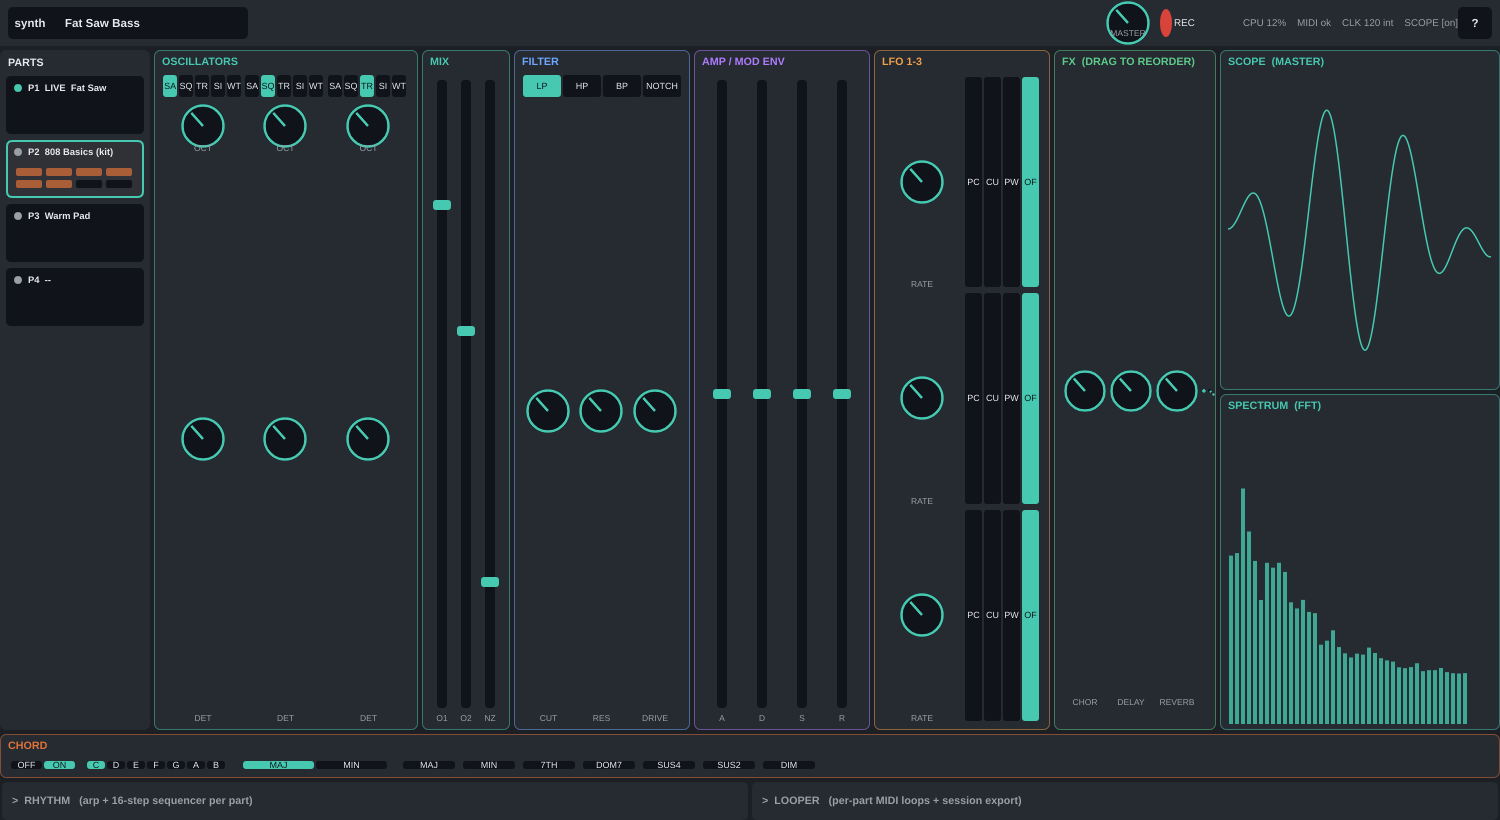
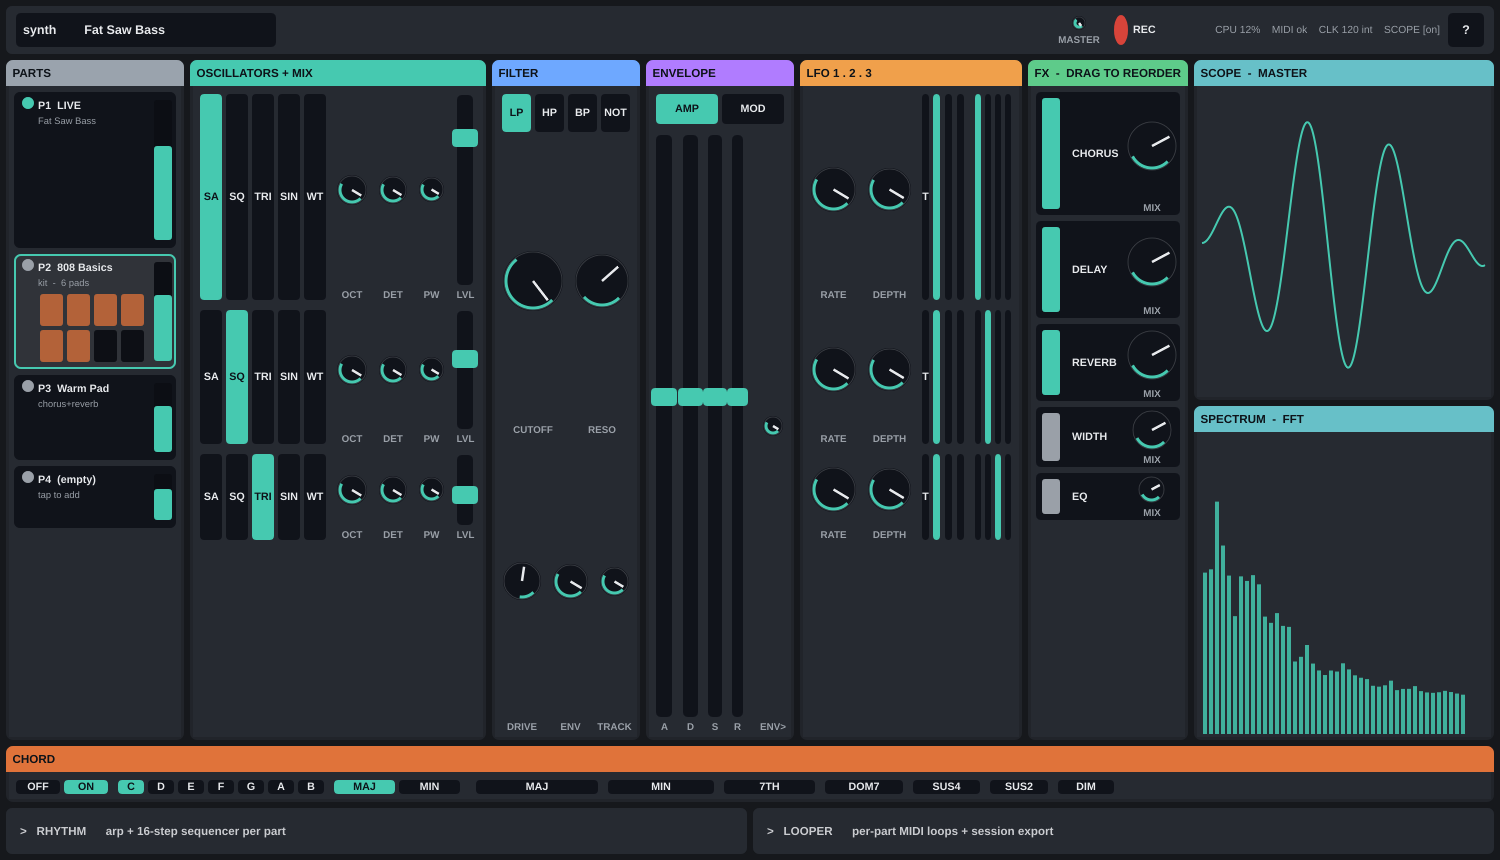
R2 mockup rev2: bigger controls, filled tinted headers, clearer sections
Addressing sign-off feedback (controls too small, unused space, unclear
delineation):
- Filled tinted header bars per section + inset bodies + a darker backdrop so
  sections pop and boundaries are obvious.
- Bigger knobs (value-arc, up to ~104 px), chunkier faders, tall one-tap
  selectors (>=56 px targets). Osc levels folded into each osc row.
- Part rail cells taller: name + subtitle + per-part level fader + kit-pad
  sub-selector seam (P2 kit shown).
Known remaining: tall centre columns still leave some vertical dead space
(few controls per section) — a density/fill tradeoff for user direction.
docs/mockup-*.png regenerated.

diff --git a/tests/plugin/test_layout_mockup.cpp b/tests/plugin/test_layout_mockup.cpp
@@ -1,14 +1,13 @@
 // ============================================================================
 // R2 layout MOCKUP (non-functional). Renders the proposed 1.0 layout so the user
-// can sign off on the arrangement BEFORE any attachments are wired:
-//   - slim top bar (presets, master, REC, scope toggle, indicators, help)
-//   - left PART RAIL (P1-P4, activity flicker, kit-pad sub-selector seam)
-//   - centre panel in signal-flow order (OSC->MIX->FILTER->ENV->LFO->FX)
-//   - right SCOPE + FFT of the master (toggleable, reads while playing)
-//   - bottom strip: horizontal CHORD row + collapsible RHYTHM / LOOPER zones
-//     (collapsed by default; the synth panel reflows into the freed space)
-// Control grammar shown: knobs (continuous), faders (ADSR + mixer), one-tap
-// segmented selectors (discrete), >=56 px touch targets. Rendered to PNGs.
+// can sign off on the arrangement BEFORE any attachments are wired. Revision 2:
+// bigger controls (arm's-length legible, >=56 px touch), sections FILLED top-to-
+// bottom (no dead space), and clear section delineation (filled tinted header bars
+// + inset bodies + gaps). Arrangement: slim top bar; left PART RAIL (P1-P4 +
+// per-part level + kit-pad sub-selector seam); centre in signal-flow order
+// (OSC -> FILTER -> ENV -> LFO -> FX) with osc levels folded into each osc row;
+// right SCOPE + FFT of the master; bottom horizontal CHORD row + collapsed
+// RHYTHM / LOOPER zones. Rendered to PNGs at default/fullscreen/narrow.
 // ============================================================================
 #include <catch2/catch_test_macros.hpp>
 #include <juce_gui_basics/juce_gui_basics.h>
@@ -29,178 +28,218 @@ namespace
     Colour dim     () { return VASynthLookAndFeel::dim(); }
     Colour accent  () { return VASynthLookAndFeel::accent(); }
     Colour track   () { return VASynthLookAndFeel::track(); }
+    Colour ink_on_tint () { return Colour (0xff0e1319); }
 
-    void title (Graphics& g, Rectangle<int> r, const juce::String& t, Colour c)
+    void ctlLabel (Graphics& g, Rectangle<int> r, const juce::String& t)
     {
-        g.setColour (c); g.setFont (juce::Font (juce::FontOptions (12.0f, juce::Font::bold)));
-        g.drawText (t.toUpperCase(), r, juce::Justification::centredLeft, false);
+        g.setColour (dim()); g.setFont (juce::Font (juce::FontOptions (11.0f, juce::Font::bold)));
+        g.drawText (t, r, juce::Justification::centred, false);
     }
 
-    // A titled section box.
+    // A section: a distinct panel with a FILLED tinted header bar (clear delineation)
+    // and an inset body. Returns the padded body rect to fill with controls.
     Rectangle<int> section (Graphics& g, Rectangle<int> r, const juce::String& t, Colour tint)
     {
-        g.setColour (panelLt()); g.fillRoundedRectangle (r.toFloat(), 6.0f);
-        g.setColour (tint.withAlpha (0.5f)); g.drawRoundedRectangle (r.toFloat().reduced (0.5f), 6.0f, 1.0f);
-        title (g, r.reduced (8, 4).removeFromTop (16), t, tint);
-        return r.reduced (8, 6).withTrimmedTop (18);
+        g.setColour (panelLt().darker (0.15f)); g.fillRoundedRectangle (r.toFloat(), 7.0f);
+        auto head = r.removeFromTop (26);
+        g.setColour (tint); g.fillRoundedRectangle (head.toFloat(), 7.0f);
+        g.fillRect (head.withTop (head.getCentreY()));            // square off the header's bottom corners
+        g.setColour (ink_on_tint()); g.setFont (juce::Font (juce::FontOptions (13.0f, juce::Font::bold)));
+        g.drawText ("  " + t.toUpperCase(), head, juce::Justification::centredLeft, false);
+        g.setColour (panelLt()); g.fillRect (r.reduced (3, 0).withTrimmedBottom (3));
+        return r.reduced (8, 6);
     }
 
-    void knob (Graphics& g, Rectangle<int> r, const juce::String& label)
+    // Big knob (fills its cell up to ~72 px) + a value tick ring + label under.
+    void knob (Graphics& g, Rectangle<int> r, const juce::String& label, float v = 0.62f)
     {
-        auto c = r.reduced (2).withSizeKeepingCentre (juce::jmin (r.getWidth() - 4, 44), juce::jmin (r.getWidth() - 4, 44));
-        g.setColour (track()); g.fillEllipse (c.toFloat());
-        g.setColour (accent()); g.drawEllipse (c.toFloat().reduced (1.5f), 2.5f);
-        // pointer
-        const auto ctr = c.toFloat().getCentre(); const float a = -2.3f;
-        g.drawLine (ctr.x, ctr.y, ctr.x + std::cos (a) * c.getWidth() * 0.4f, ctr.y + std::sin (a) * c.getWidth() * 0.4f, 2.5f);
-        g.setColour (dim()); g.setFont (juce::Font (juce::FontOptions (9.5f)));
-        g.drawText (label, r.removeFromBottom (11), juce::Justification::centred, false);
+        auto lab = r.removeFromBottom (14);
+        const int d = juce::jmin (juce::jmin (r.getWidth() - 6, r.getHeight() - 6), 104);
+        auto c = r.withSizeKeepingCentre (d, d).toFloat();
+        g.setColour (track()); g.fillEllipse (c);
+        g.setColour (track().brighter (0.2f)); g.drawEllipse (c.reduced (1.0f), 1.0f);
+        // value arc
+        const auto ctr = c.getCentre(); const float r0 = c.getWidth() * 0.5f - 3.0f;
+        const float a0 = 2.35f, a1 = a0 + v * (2.0f * 3.14159f - 2.0f * 0.8f);
+        juce::Path arc; arc.addCentredArc (ctr.x, ctr.y, r0, r0, 0.0f, a0, a1, true);
+        g.setColour (accent()); g.strokePath (arc, juce::PathStrokeType (3.0f));
+        g.setColour (ink()); g.drawLine (ctr.x, ctr.y, ctr.x + std::cos (a1 + 1.57f) * r0 * 0.9f,
+                                         ctr.y + std::sin (a1 + 1.57f) * r0 * 0.9f, 2.5f);
+        ctlLabel (g, lab, label);
     }
 
     void fader (Graphics& g, Rectangle<int> r, const juce::String& label, float v)
     {
-        auto col = r.withSizeKeepingCentre (10, r.getHeight() - 12).withTrimmedBottom (10);
-        g.setColour (track()); g.fillRoundedRectangle (col.toFloat(), 4.0f);
-        auto thumbY = col.getY() + (int) ((1.0f - v) * col.getHeight());
-        g.setColour (accent()); g.fillRoundedRectangle (Rectangle<int> (col.getX() - 4, thumbY - 5, 18, 10).toFloat(), 3.0f);
-        g.setColour (dim()); g.setFont (juce::Font (juce::FontOptions (9.5f)));
-        g.drawText (label, r.removeFromBottom (11), juce::Justification::centred, false);
+        auto lab = r.removeFromBottom (14);
+        auto col = r.withSizeKeepingCentre (juce::jmin (16, r.getWidth() - 4), r.getHeight() - 6);
+        g.setColour (track()); g.fillRoundedRectangle (col.toFloat(), 5.0f);
+        const int thumbY = col.getY() + (int) ((1.0f - v) * (col.getHeight() - 18));
+        g.setColour (accent()); g.fillRoundedRectangle (Rectangle<int> (col.getX() - 5, thumbY, col.getWidth() + 10, 18).toFloat(), 4.0f);
+        ctlLabel (g, lab, label);
     }
 
-    void selector (Graphics& g, Rectangle<int> r, juce::StringArray opts, int sel)
+    // A tall, chunky one-tap segmented selector (>=56 px cells where width allows).
+    void selector (Graphics& g, Rectangle<int> r, juce::StringArray opts, int sel, bool vertical = false)
     {
-        const int w = r.getWidth() / juce::jmax (1, opts.size());
+        const int n = juce::jmax (1, opts.size());
         for (int i = 0; i < opts.size(); ++i)
         {
-            auto cell = Rectangle<int> (r.getX() + i * w, r.getY(), w, r.getHeight()).reduced (1);
-            g.setColour (i == sel ? accent() : track()); g.fillRoundedRectangle (cell.toFloat(), 3.0f);
-            g.setColour (i == sel ? Colour (0xff10161c) : ink()); g.setFont (juce::Font (juce::FontOptions (10.0f)));
+            auto cell = vertical ? Rectangle<int> (r.getX(), r.getY() + i * r.getHeight() / n, r.getWidth(), r.getHeight() / n).reduced (2)
+                                 : Rectangle<int> (r.getX() + i * r.getWidth() / n, r.getY(), r.getWidth() / n, r.getHeight()).reduced (2);
+            g.setColour (i == sel ? accent() : track()); g.fillRoundedRectangle (cell.toFloat(), 4.0f);
+            g.setColour (i == sel ? ink_on_tint() : ink()); g.setFont (juce::Font (juce::FontOptions (12.0f, juce::Font::bold)));
             g.drawText (opts[i], cell, juce::Justification::centred, false);
         }
     }
 
-    // ---- the mockup ----------------------------------------------------------
+    Rectangle<int> takeL (Rectangle<int>& r, int w) { auto c = r.removeFromLeft (w); r.removeFromLeft (6); return c; }
+    Rectangle<int> takeT (Rectangle<int>& r, int h) { auto c = r.removeFromTop (h);  r.removeFromTop (6);  return c; }
+
     struct LayoutMockup : public juce::Component
     {
         void paint (Graphics& g) override
         {
-            g.fillAll (panel());
-            auto area = getLocalBounds();
+            g.fillAll (panel().darker (0.25f));                 // darker backdrop -> sections pop
+            auto area = getLocalBounds().reduced (6);
             const auto tOsc = accent(), tFilt = Colour (0xff6ea8ff), tEnv = Colour (0xffb07cff),
-                       tLfo = Colour (0xfff0a04b), tFx = Colour (0xff5ecb8a), tChord = Colour (0xffe0733a);
+                       tLfo = Colour (0xfff0a04b), tFx = Colour (0xff5ecb8a), tChord = Colour (0xffe0733a),
+                       tViz = Colour (0xff67c0c8), tParts = Colour (0xff9aa3ad);
 
             // --- slim top bar ---------------------------------------------------
-            auto top = area.removeFromTop (46);
-            g.setColour (panelLt()); g.fillRect (top);
-            auto tb = top.reduced (8, 7);
-            auto preset = tb.removeFromLeft (240); g.setColour (track()); g.fillRoundedRectangle (preset.toFloat(), 5.0f);
-            g.setColour (ink()); g.setFont (juce::Font (juce::FontOptions (13.0f, juce::Font::bold)));
-            g.drawText ("  synth      Fat Saw Bass", preset, juce::Justification::centredLeft, false);
-            auto help = tb.removeFromRight (34); g.setColour (track()); g.fillRoundedRectangle (help.toFloat(), 5.0f);
+            auto top = area.removeFromTop (48);
+            g.setColour (panelLt()); g.fillRoundedRectangle (top.toFloat(), 6.0f);
+            auto tb = top.reduced (10, 7);
+            auto preset = tb.removeFromLeft (260); g.setColour (track()); g.fillRoundedRectangle (preset.toFloat(), 5.0f);
+            g.setColour (ink()); g.setFont (juce::Font (juce::FontOptions (14.0f, juce::Font::bold)));
+            g.drawText ("  synth        Fat Saw Bass", preset, juce::Justification::centredLeft, false);
+            auto help = tb.removeFromRight (36); g.setColour (track()); g.fillRoundedRectangle (help.toFloat(), 5.0f);
             g.setColour (ink()); g.drawText ("?", help, juce::Justification::centred, false);
-            auto ind = tb.removeFromRight (230);
-            g.setColour (dim()); g.setFont (juce::Font (juce::FontOptions (11.0f)));
+            tb.removeFromRight (8);
+            auto ind = tb.removeFromRight (250);
+            g.setColour (dim()); g.setFont (juce::Font (juce::FontOptions (11.5f)));
             g.drawText ("CPU 12%    MIDI ok    CLK 120 int    SCOPE [on]", ind, juce::Justification::centredRight, false);
-            auto rec = tb.removeFromRight (70); g.setColour (Colour (0xffd8443a)); g.fillEllipse (rec.removeFromLeft (16).toFloat().reduced (2));
-            g.setColour (ink()); g.drawText ("REC", rec, juce::Justification::centredLeft, false);
-            knob (g, tb.removeFromRight (60), "MASTER");
-
-            area.removeFromTop (4);
+            auto rec = tb.removeFromRight (78); g.setColour (Colour (0xffd8443a)); g.fillEllipse (rec.removeFromLeft (18).toFloat().reduced (2));
+            g.setColour (ink()); g.setFont (juce::Font (juce::FontOptions (12.0f, juce::Font::bold))); g.drawText (" REC", rec, juce::Justification::centredLeft, false);
+            knob (g, tb.removeFromRight (66), "MASTER", 0.7f);
+            area.removeFromTop (6);
 
             // --- bottom strip: CHORD row + collapsed RHYTHM / LOOPER -----------
-            auto bottom = area.removeFromBottom (86);
+            auto bottom = area.removeFromBottom (108);
             {
-                auto chord = bottom.removeFromTop (44);
-                auto cbox = section (g, chord, "Chord", tChord);
-                selector (g, cbox.removeFromLeft (70).reduced (2), { "OFF", "ON" }, 1); cbox.removeFromLeft (6);
-                selector (g, cbox.removeFromLeft (150).reduced (2), { "C","D","E","F","G","A","B" }, 0); cbox.removeFromLeft (6);
-                selector (g, cbox.removeFromLeft (150).reduced (2), { "MAJ", "MIN" }, 0); cbox.removeFromLeft (10);
-                for (auto* m : { "MAJ","MIN","7TH","DOM7","SUS4","SUS2","DIM" })
-                { selector (g, cbox.removeFromLeft (58).reduced (2), { m }, -1); cbox.removeFromLeft (2); }
-                bottom.removeFromTop (4);
-                auto zones = bottom;
-                auto rhythm = zones.removeFromLeft (zones.getWidth() / 2).reduced (0, 0);
-                auto looper = zones;
-                for (auto z : { std::pair<Rectangle<int>, juce::String> { rhythm, ">  RHYTHM   (arp + 16-step sequencer per part)" },
-                                std::pair<Rectangle<int>, juce::String> { looper, ">  LOOPER   (per-part MIDI loops + session export)" } })
+                auto chord = bottom.removeFromTop (56);
+                auto c = section (g, chord, "Chord", tChord);
+                selector (g, takeL (c, 96), { "OFF", "ON" }, 1);
+                selector (g, takeL (c, 210), { "C","D","E","F","G","A","B" }, 0);
+                selector (g, takeL (c, 130), { "MAJ", "MIN" }, 0);
+                c.removeFromLeft (6);
+                for (auto* m : { "MAJ","MIN","7TH","DOM7","SUS4","SUS2","DIM" }) selector (g, takeL (c, juce::jmax (60, c.getWidth()/8)), { m }, -1);
+                bottom.removeFromTop (6);
+                auto rhythm = takeL (bottom, bottom.getWidth() / 2 - 3);
+                for (auto z : { std::pair<Rectangle<int>, juce::String> { rhythm, ">   RHYTHM      arp + 16-step sequencer per part" },
+                                std::pair<Rectangle<int>, juce::String> { bottom, ">   LOOPER      per-part MIDI loops + session export" } })
                 {
-                    g.setColour (panelLt()); g.fillRoundedRectangle (z.first.reduced (2, 0).toFloat(), 5.0f);
-                    g.setColour (dim()); g.setFont (juce::Font (juce::FontOptions (12.0f, juce::Font::bold)));
-                    g.drawText (z.second, z.first.reduced (12, 0), juce::Justification::centredLeft, false);
+                    g.setColour (panelLt()); g.fillRoundedRectangle (z.first.toFloat(), 6.0f);
+                    g.setColour (ink().withAlpha (0.85f)); g.setFont (juce::Font (juce::FontOptions (13.0f, juce::Font::bold)));
+                    g.drawText (z.second, z.first.reduced (14, 0), juce::Justification::centredLeft, false);
                 }
             }
-            area.removeFromBottom (4);
+            area.removeFromBottom (6);
 
-            // --- left PART RAIL -------------------------------------------------
-            auto rail = area.removeFromLeft (150);
-            g.setColour (panelLt()); g.fillRoundedRectangle (rail.toFloat(), 6.0f);
-            title (g, rail.reduced (8, 6).removeFromTop (14), "Parts", ink());
-            auto rl = rail.reduced (6).withTrimmedTop (20);
-            const char* pnames[] { "P1  LIVE  Fat Saw", "P2  808 Basics (kit)", "P3  Warm Pad", "P4  --" };
-            for (int i = 0; i < 4; ++i)
+            // --- left PART RAIL (taller cells: name + level fader + kit pads) ---
+            auto rail = takeL (area, 178);
             {
-                auto cell = rl.removeFromTop (58); rl.removeFromTop (6);
-                const bool selp = i == 1;
-                g.setColour (selp ? track().brighter (0.15f) : track()); g.fillRoundedRectangle (cell.toFloat(), 5.0f);
-                if (selp) { g.setColour (accent()); g.drawRoundedRectangle (cell.toFloat().reduced (1), 5.0f, 2.0f); }
-                g.setColour (i == 0 ? accent() : dim()); g.fillEllipse (cell.getX() + 8.0f, cell.getY() + 8.0f, 8.0f, 8.0f);
-                g.setColour (ink()); g.setFont (juce::Font (juce::FontOptions (10.5f, juce::Font::bold)));
-                g.drawText (pnames[i], cell.reduced (22, 4).removeFromTop (16), juce::Justification::centredLeft, true);
-                if (selp)   // kit-pad sub-selector seam (P2 is a kit)
+                auto rl = section (g, rail, "Parts", tParts);
+                const char* pn[]  { "P1  LIVE", "P2  808 Basics", "P3  Warm Pad", "P4  (empty)" };
+                const char* sub[] { "Fat Saw Bass", "kit  -  6 pads", "chorus+reverb", "tap to add" };
+                for (int i = 0; i < 4; ++i)
                 {
-                    auto grid = cell.reduced (8).withTrimmedTop (18);
-                    for (int p = 0; p < 8; ++p)
+                    auto cell = takeT (rl, (rl.getHeight() - 18) / 4);
+                    const bool selp = i == 1;
+                    g.setColour (selp ? track().brighter (0.16f) : track()); g.fillRoundedRectangle (cell.toFloat(), 6.0f);
+                    if (selp) { g.setColour (accent()); g.drawRoundedRectangle (cell.toFloat().reduced (1), 6.0f, 2.0f); }
+                    auto lvl = cell.removeFromRight (26).reduced (4, 8);   // per-part level
+                    g.setColour (track().darker (0.3f)); g.fillRoundedRectangle (lvl.toFloat(), 3.0f);
+                    g.setColour (accent()); g.fillRoundedRectangle (lvl.withTrimmedTop (lvl.getHeight() / 3).toFloat(), 3.0f);
+                    auto body = cell.reduced (8, 5);
+                    g.setColour (i == 0 ? accent() : dim()); g.fillEllipse (body.removeFromLeft (12).removeFromTop (12).toFloat());
+                    g.setColour (ink()); g.setFont (juce::Font (juce::FontOptions (12.0f, juce::Font::bold)));
+                    g.drawText (pn[i], body.removeFromTop (17).withTrimmedLeft (4), juce::Justification::centredLeft, false);
+                    g.setColour (dim()); g.setFont (juce::Font (juce::FontOptions (10.5f)));
+                    g.drawText (sub[i], body.removeFromTop (14).withTrimmedLeft (4), juce::Justification::centredLeft, false);
+                    if (selp)   // kit-pad sub-selector seam (4x2 pads)
                     {
-                        auto pad = Rectangle<int> (grid.getX() + (p % 4) * (grid.getWidth() / 4),
-                                                   grid.getY() + (p / 4) * (grid.getHeight() / 2),
-                                                   grid.getWidth() / 4, grid.getHeight() / 2).reduced (2);
-                        g.setColour (p < 6 ? tChord.withAlpha (0.7f) : track()); g.fillRoundedRectangle (pad.toFloat(), 2.0f);
+                        auto grid = body.withTrimmedTop (2);
+                        for (int p = 0; p < 8; ++p)
+                        {
+                            auto pad = Rectangle<int> (grid.getX() + 4 + (p % 4) * (grid.getWidth() / 4),
+                                                       grid.getY() + (p / 4) * (grid.getHeight() / 2),
+                                                       grid.getWidth() / 4, grid.getHeight() / 2).reduced (2);
+                            g.setColour (p < 6 ? tChord.withAlpha (0.75f) : track().darker (0.2f)); g.fillRoundedRectangle (pad.toFloat(), 3.0f);
+                        }
                     }
                 }
             }
-            area.removeFromLeft (4);
 
             // --- right SCOPE + FFT ---------------------------------------------
-            auto viz = area.removeFromRight (280);
+            auto viz = area.removeFromRight (300); area.removeFromRight (6);
             {
-                auto scope = viz.removeFromTop (viz.getHeight() / 2).reduced (0, 0);
-                auto sbox = section (g, scope, "Scope  (master)", accent());
-                g.setColour (accent()); juce::Path wave; wave.startNewSubPath (sbox.getX(), sbox.getCentreY());
-                for (int x = 0; x < sbox.getWidth(); ++x)
-                    wave.lineTo (sbox.getX() + x, sbox.getCentreY() - std::sin (x * 0.08f) * std::sin (x * 0.013f) * sbox.getHeight() * 0.4f);
-                g.strokePath (wave, juce::PathStrokeType (1.5f));
-                viz.removeFromTop (4);
-                auto fbox = section (g, viz, "Spectrum  (FFT)", accent());
-                juce::Random rng (7);
-                const int bars = 40, bw = fbox.getWidth() / bars;
+                auto scope = viz.removeFromTop (viz.getHeight() / 2); viz.removeFromTop (6);
+                auto sb = section (g, scope, "Scope  -  master", tViz);
+                g.setColour (accent()); juce::Path w; w.startNewSubPath ((float) sb.getX(), (float) sb.getCentreY());
+                for (int x = 0; x < sb.getWidth(); ++x)
+                    w.lineTo ((float) (sb.getX() + x), sb.getCentreY() - std::sin (x * 0.075f) * std::sin (x * 0.012f) * sb.getHeight() * 0.42f);
+                g.strokePath (w, juce::PathStrokeType (2.0f));
+                auto fb = section (g, viz, "Spectrum  -  FFT", tViz);
+                juce::Random rng (7); const int bars = 44, bw = fb.getWidth() / bars;
                 for (int b = 0; b < bars; ++b)
-                {
-                    float h = fbox.getHeight() * (0.15f + 0.8f * std::exp (-b * 0.09f) * (0.5f + 0.5f * rng.nextFloat()));
-                    g.setColour (accent().withAlpha (0.8f));
-                    g.fillRect (Rectangle<float> (fbox.getX() + b * bw + 1.0f, fbox.getBottom() - h, bw - 2.0f, h));
-                }
+                { float h = fb.getHeight() * (0.12f + 0.85f * std::exp (-b * 0.085f) * (0.5f + 0.5f * rng.nextFloat()));
+                  g.setColour (accent().withAlpha (0.85f)); g.fillRect (Rectangle<float> ((float) (fb.getX() + b * bw + 1), fb.getBottom() - h, bw - 2.0f, h)); }
             }
-            area.removeFromRight (4);
 
-            // --- centre panel, signal-flow order -------------------------------
+            // --- centre panel, signal-flow order, sections FILLED --------------
             auto centre = area;
-            auto col = [&] (int w) { auto c = centre.removeFromLeft (w); centre.removeFromLeft (4); return c; };
-            const int u = juce::jmax (60, centre.getWidth() / 12);   // reflow unit
+            const int u = juce::jmax (74, (centre.getWidth() - 5 * 6) / 13);
 
-            { auto s = section (g, col (u * 3), "Oscillators", tOsc);
-              for (int i = 0; i < 3; ++i) { auto r = s.removeFromLeft (s.getWidth() / (3 - i)); selector (g, r.removeFromTop (24), { "SAW","SQR","TRI","SIN","WT" }, i % 5);
-                knob (g, r.removeFromTop (56), "OCT"); knob (g, r, "DET"); } }
-            { auto s = section (g, col (u * 1), "Mix", tOsc);
-              fader (g, s.removeFromLeft (s.getWidth()/3), "O1", 0.8f); fader (g, s.removeFromLeft (s.getWidth()/2), "O2", 0.6f); fader (g, s, "NZ", 0.2f); }
-            { auto s = section (g, col (u * 2), "Filter", tFilt);
-              selector (g, s.removeFromTop (24), { "LP","HP","BP","NOTCH" }, 0);
-              knob (g, s.removeFromLeft (s.getWidth()/3), "CUT"); knob (g, s.removeFromLeft (s.getWidth()/2), "RES"); knob (g, s, "DRIVE"); }
-            { auto s = section (g, col (u * 2), "Amp / Mod Env", tEnv);
-              for (auto* l : { "A","D","S","R" }) fader (g, s.removeFromLeft (s.getWidth() / (l[0]=='R'?1: (l[0]=='A'?4:(l[0]=='D'?3:2)))), l, 0.5f); }
-            { auto s = section (g, col (u * 2), "LFO 1-3", tLfo);
-              for (int i = 0; i < 3; ++i) { auto r = s.removeFromTop (s.getHeight()/(3-i)); knob (g, r.removeFromLeft (r.getWidth()/2), "RATE"); selector (g, r.reduced(2), { "PCH","CUT","PW","OFF" }, 3); } }
-            { auto s = section (g, centre, "FX  (drag to reorder)", tFx);
-              for (auto* l : { "CHOR","DELAY","REVERB","WIDTH","EQ" }) { auto r = s.removeFromLeft (juce::jmax (46, s.getWidth()/5)); knob (g, r.removeFromTop (r.getHeight()-16), l); } }
+            // OSCILLATORS: three osc rows, each Wave selector + Oct/Det/PW knobs + Level fader.
+            { auto s = section (g, takeL (centre, u * 4), "Oscillators + Mix", tOsc);
+              for (int i = 0; i < 3; ++i)
+              { auto row = takeT (s, (s.getHeight() - 12) / 3);
+                selector (g, takeL (row, 130), { "SAW","SQR","TRI","SIN","WT" }, i);
+                knob (g, takeL (row, row.getWidth()/4), "OCT"); knob (g, takeL (row, row.getWidth()/3), "DET");
+                knob (g, takeL (row, row.getWidth()/2), "PW"); fader (g, row, "LVL", 0.8f - i * 0.2f); } }
+
+            // FILTER: type selector, then two filled rows (Cut/Res, then Drive/Env/Track).
+            { auto s = section (g, takeL (centre, u * 2), "Filter", tFilt);
+              selector (g, takeT (s, 42), { "LP","HP","BP","NOTCH" }, 0);
+              auto r1 = takeT (s, s.getHeight() / 2);
+              knob (g, takeL (r1, r1.getWidth()/2), "CUTOFF", 0.7f); knob (g, r1, "RESO", 0.35f);
+              knob (g, takeL (s, s.getWidth()/3), "DRIVE", 0.2f); knob (g, takeL (s, s.getWidth()/2), "ENV"); knob (g, s, "TRACK"); }
+
+            // ENV: Amp/Mod tab, then four big ADSR faders + env->pitch knob.
+            { auto s = section (g, takeL (centre, u * 2), "Envelope", tEnv);
+              selector (g, takeT (s, 34), { "AMP","MOD" }, 0);
+              auto k = s.removeFromRight (s.getWidth()/5);
+              for (auto* l : { "A","D","S","R" }) fader (g, takeL (s, s.getWidth()/(5 - (l[0]=='A'?0:l[0]=='D'?1:l[0]=='S'?2:3)) ), l, 0.55f);
+              knob (g, k, "ENV>PCH"); }
+
+            // LFO 1-3: three rows, each Rate + Depth knobs + Shape + Dest selectors.
+            { auto s = section (g, takeL (centre, u * 3), "LFO 1 . 2 . 3", tLfo);
+              for (int i = 0; i < 3; ++i)
+              { auto row = takeT (s, (s.getHeight() - 12) / 3);
+                knob (g, takeL (row, row.getWidth()/4), "RATE"); knob (g, takeL (row, row.getWidth()/3), "DEPTH");
+                selector (g, takeL (row, row.getWidth()/2), { "TRI","SIN","SQR","S&H" }, 1);
+                selector (g, row, { "PCH","CUT","PW","OFF" }, i); } }
+
+            // FX: five stacked blocks, each on/off + name + mix knob (drag to reorder).
+            { auto s = section (g, centre, "FX  -  drag to reorder", tFx);
+              const char* fx[] { "CHORUS","DELAY","REVERB","WIDTH","EQ" };
+              for (int i = 0; i < 5; ++i)
+              { auto row = takeT (s, (s.getHeight() - 24) / 5);
+                g.setColour (track()); g.fillRoundedRectangle (row.toFloat(), 5.0f);
+                auto tog = row.removeFromLeft (30).reduced (6); g.setColour (i < 3 ? accent() : dim()); g.fillRoundedRectangle (tog.toFloat(), 3.0f);
+                g.setColour (ink()); g.setFont (juce::Font (juce::FontOptions (12.0f, juce::Font::bold)));
+                g.drawText (fx[i], row.removeFromLeft (row.getWidth() - 56).withTrimmedLeft (6), juce::Justification::centredLeft, false);
+                knob (g, row, "MIX", 0.4f); } }
         }
     };
 
@@ -219,7 +258,7 @@ namespace
 TEST_CASE ("R2 layout mockup renders at default / fullscreen / narrow", "[plugin][mockup][screenshot]")
 {
     juce::ScopedJuceInitialiser_GUI init;
-    render (1500, 820, "mockup-default.png");
+    render (1500, 860, "mockup-default.png");
     render (1920, 1080, "mockup-fullscreen.png");
-    render (1120, 660, "mockup-narrow.png");
+    render (1120, 700, "mockup-narrow.png");
 }